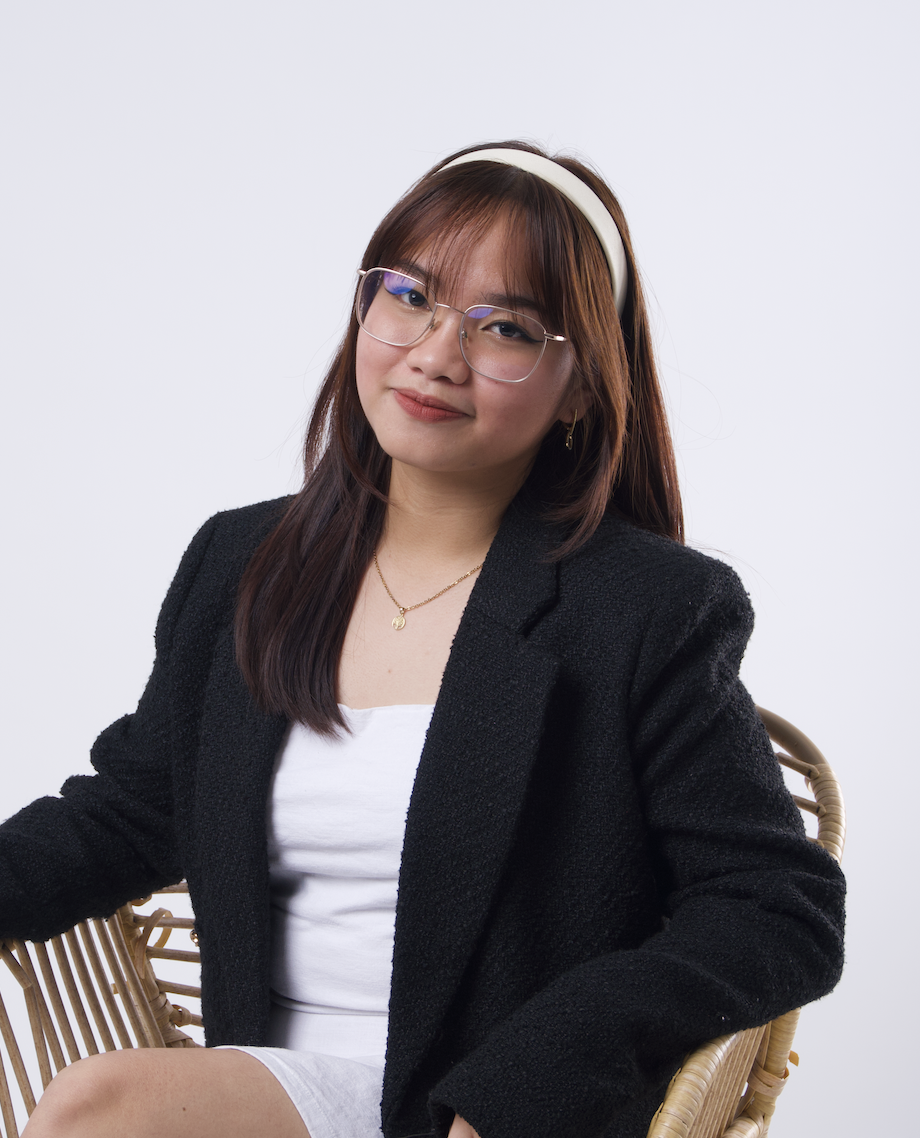
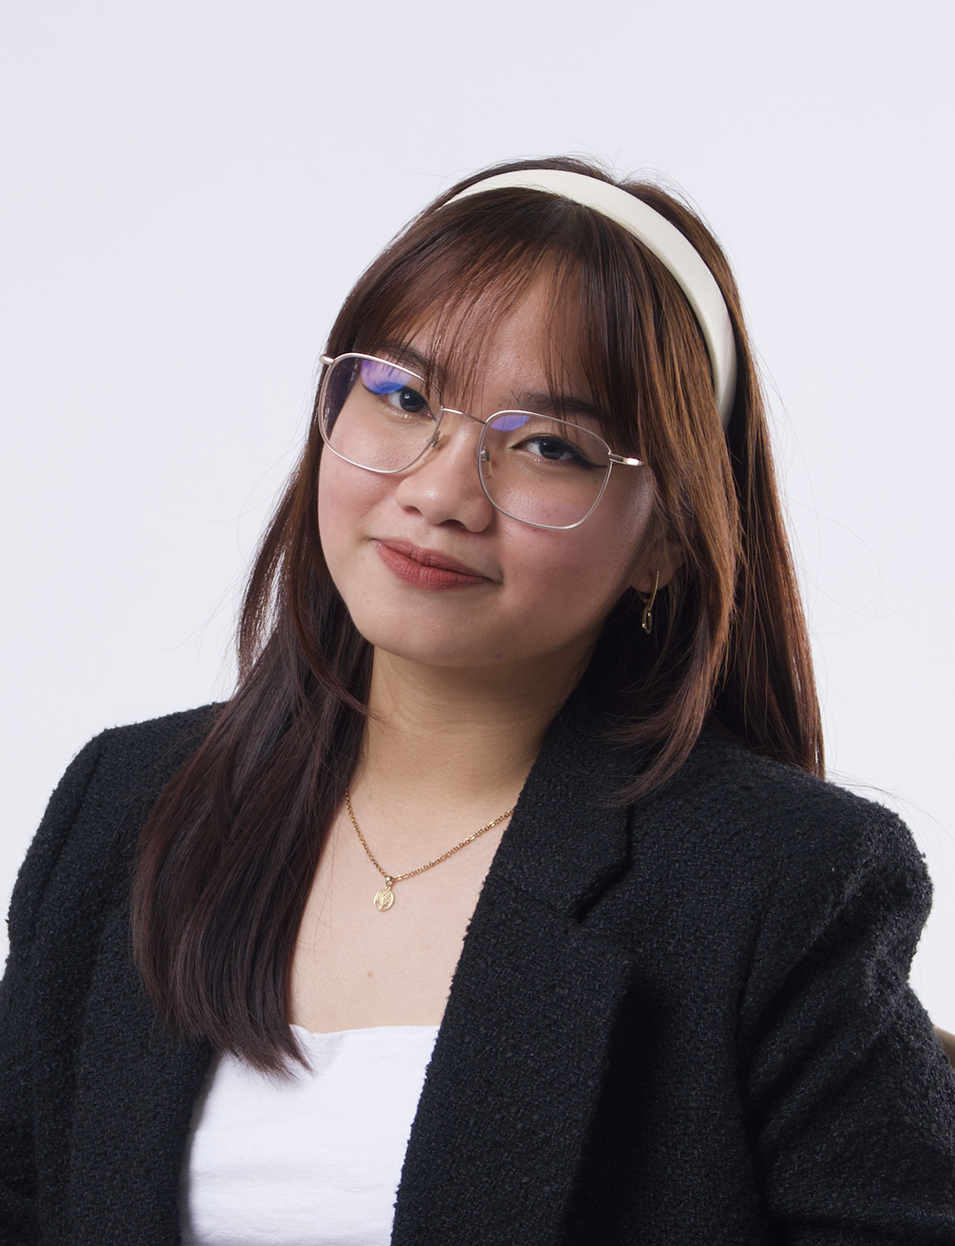
Update team images and component content

diff --git a/5ense-studios-business-website-main/src/components/Friend/Content/Content.jsx b/5ense-studios-business-website-main/src/components/Friend/Content/Content.jsx
@@ -7,17 +7,14 @@ import Gallery1 from '../../../assets/gallery/gallery 1.png'
 import Gallery2 from '../../../assets/gallery/gallery 2.png'
 import Gallery3 from '../../../assets/gallery/gallery 3.png'
 import Gallery4 from '../../../assets/gallery/gallery 4.png'
-import Gallery5 from '../../../assets/gallery/gallery 5.png'  
-import Gallery6 from '../../../assets/gallery/gallery 6.png'
-import Gallery7 from '../../../assets/gallery/gallery 7.png'
-import Gallery8 from '../../../assets/gallery/gallery 8.png'
+
 
 const FriendClipPath = new URL('../../../assets/gallery/gallery showcase.mp4', import.meta.url).href
 
 const Content = () => {
   const [galleryPage, setGalleryPage] = useState(0)
 
-  const galleryImages = [Gallery1, Gallery2, Gallery3, Gallery4, Gallery5, Gallery6, Gallery7, Gallery8]
+  const galleryImages = [Gallery1, Gallery2, Gallery3, Gallery4,]
   const pageSize = 4
   const galleryPageCount = Math.ceil(galleryImages.length / pageSize)
   const visibleGalleryImages = galleryImages.slice(
@@ -43,7 +40,7 @@ const Content = () => {
       <img src={GrungeTexture} alt="" className="absolute inset-0 w-full h-full object-cover opacity-[0.50] pointer-events-none" />
       <div className="absolute inset-0 bg-[#1a1a1c] opacity-70"></div>
 
-      <div className='w-full pt-24 relative z-10'>
+      <div className='w-full pt-10 md:pt-24 relative z-10'>
         
         <div className="font-mono text-white text-md md:text-[21px] leading-[1.4] mb-22 w-full text-justify mt-0 md:mt-5 tracking-[-0.043em]">
           <p className=" mb-10">
@@ -97,28 +94,12 @@ const Content = () => {
               ))}
             </div>
 
-            {/* Arrows */}
-            <button
-              type="button"
-              onClick={handlePreviousGalleryPage}
-              className="absolute left-0 -translate-x-6 text-white/60 hover:text-white text-5xl font-bold"
-              aria-label="Previous gallery items"
-            >
-              ‹
-            </button>
-            <button
-              type="button"
-              onClick={handleNextGalleryPage}
-              className="absolute right-0 translate-x-6 text-white/60 hover:text-white text-5xl font-bold"
-              aria-label="Next gallery items"
-            >
-              ›
-            </button>
+  
 
             
 
           </div>
-          <div className="font-mono text-white text-md md:text-[21px] leading-[1.4] mb-22 w-full text-justify mt-0 md:mt-20 tracking-[-0.043em]">
+          <div className="font-mono text-white text-md md:text-[21px] leading-[1.4] mb-0 md:mb-22 w-full text-justify mt-10 md:mt-20 tracking-[-0.043em]">
           <p className=" mb-10">
             <span className="font-bold">Navigate the Interface</span> - The system operates like a real computer desktop right in your browser. You will need to manually open files and folders to begin.
           </p>

diff --git a/5ense-studios-business-website-main/src/components/About/Team/Team.jsx b/5ense-studios-business-website-main/src/components/About/Team/Team.jsx
@@ -1,26 +1,23 @@
 import React, { useState } from 'react'
 import PaperTexture from '../../../assets/images/Texture/Paper.jpg'
 
-import Christian from '../../../assets/images/Team/Team - Christian.jpeg'
+import Christian from '../../../assets/images/Team/Team - Christian.png'
 import Eana from '../../../assets/images/Team/Team - Eana.png'
-import Fredrick from '../../../assets/images/Team/Team - Fred.jpg'
-import JR from '../../../assets/images/Team/Team - JR.jpg'
-import Nathan from '../../../assets/images/Team/Team - Nathan.jpg'
+import Fredrick from '../../../assets/images/Team/Team - Fred.png'
+import JR from '../../../assets/images/Team/Team - JR.png'
+import Nathan from '../../../assets/images/Team/Team - Nathan.png'
 
 const TeamMembers = [
   { 
     name: 'Christian\nTan',
     role: 'Marketing Coordinator',
     image: Christian,
-    zoom: 'scale-190',
-    position: '0px 40px',
   },
   { 
     name: 'Eana Mae\nTagana',
     role: 'Creative Director &\nProject Manager',
     image: Eana,
-    zoom: 'scale-120',
-    position: '-12px 20px'
+    
   },
   { 
     name: 'Fredrick\nArago',
@@ -31,15 +28,11 @@ const TeamMembers = [
     name: 'John Richard\nRoble',
     role: 'Frontend Developer',
     image: JR,
-    zoom: 'scale-115',
-    position: '0px 10px'
   },
   { 
     name: 'Nathan\nBartolo',
     role: 'Lead Developer &\nSound Designer',
     image: Nathan,
-    zoom: 'scale-145',
-    position: '-1px 35px'
   },
 ]
 
@@ -67,7 +60,7 @@ const Team = () => {
         </div>
 
         {/* Grid - Mobile: 2 cols, Tablet: 3 cols, Surface Pro/MD: 4 cols, Desktop: 5 cols */}
-        <div className='grid grid-cols-2 md:grid-cols-3 lg:grid-cols-5 gap-3 md:gap-4 lg:gap-5' id="team-grid">
+        <div className='grid grid-cols-2 md:grid-cols-3 lg:grid-cols-5 gap-5 md:gap-4 lg:gap-5' id="team-grid">
           {TeamMembers.map((member, index) => (
             <div
               key={index}

diff --git a/5ense-studios-business-website-main/src/components/Contact/ContactContent.jsx b/5ense-studios-business-website-main/src/components/Contact/ContactContent.jsx
@@ -127,7 +127,7 @@ const ContactContent = () => {
         <div className='bg-[#111113] rounded-full px-10 py-5 flex items-center gap-8'>
 
           {/* Mail */}
-          <a href='mailto:sensestudios@example.com' className='text-white hover:text-[#f16d18] transition-colors'>
+          <a href='mailto:5ense.studios2026@gmail.com' className='text-white hover:text-[#f16d18] transition-colors'>
             <svg xmlns='http://www.w3.org/2000/svg' width='28' height='28' viewBox='0 0 24 24' fill='currentColor'>
               <path d='M20 4H4C2.9 4 2 4.9 2 6v12c0 1.1.9 2 2 2h16c1.1 0 2-.9 2-2V6c0-1.1-.9-2-2-2zm0 4-8 5-8-5V6l8 5 8-5v2z'/>
             </svg>

diff --git a/5ense-studios-business-website-main/src/components/About/GamePromo/GamePromo.jsx b/5ense-studios-business-website-main/src/components/About/GamePromo/GamePromo.jsx
@@ -34,7 +34,7 @@ const GamePromo = () => {
         {/* CTA */}
         <button
           onClick={() => navigate('/friend')}
-          className='bg-[#f16d18] text-white text-xs md:text-sm tracking-widest uppercase px-5 py-1.5 md:px-10 md:py-2 rounded-full hover:bg-[#d45e10] transition duration-200'
+          className='bg-[#f16d18] px-5 md:px-10 py-2 rounded-full text-sm font-glacial tracking-wide hover:bg-[#d45e10] transition duration-200 cursor-pointer uppercase text-white'
         >
           Learn More
         </button>

diff --git a/5ense-studios-business-website-main/src/components/Friend/FAQ/FAQ.jsx b/5ense-studios-business-website-main/src/components/Friend/FAQ/FAQ.jsx
@@ -57,7 +57,7 @@ const FAQItem = ({ question, answer }) => {
       <div
         className={`overflow-hidden transition-all duration-300 ease-in-out ${open ? 'max-h-96 opacity-100' : 'max-h-0 opacity-0'}`}
       >
-        <p className='text-zinc-400 text-sm leading-relaxed pb-5'>
+        <p className='text-white text-sm leading-relaxed pb-5'>
           {answer}
         </p>
       </div>
